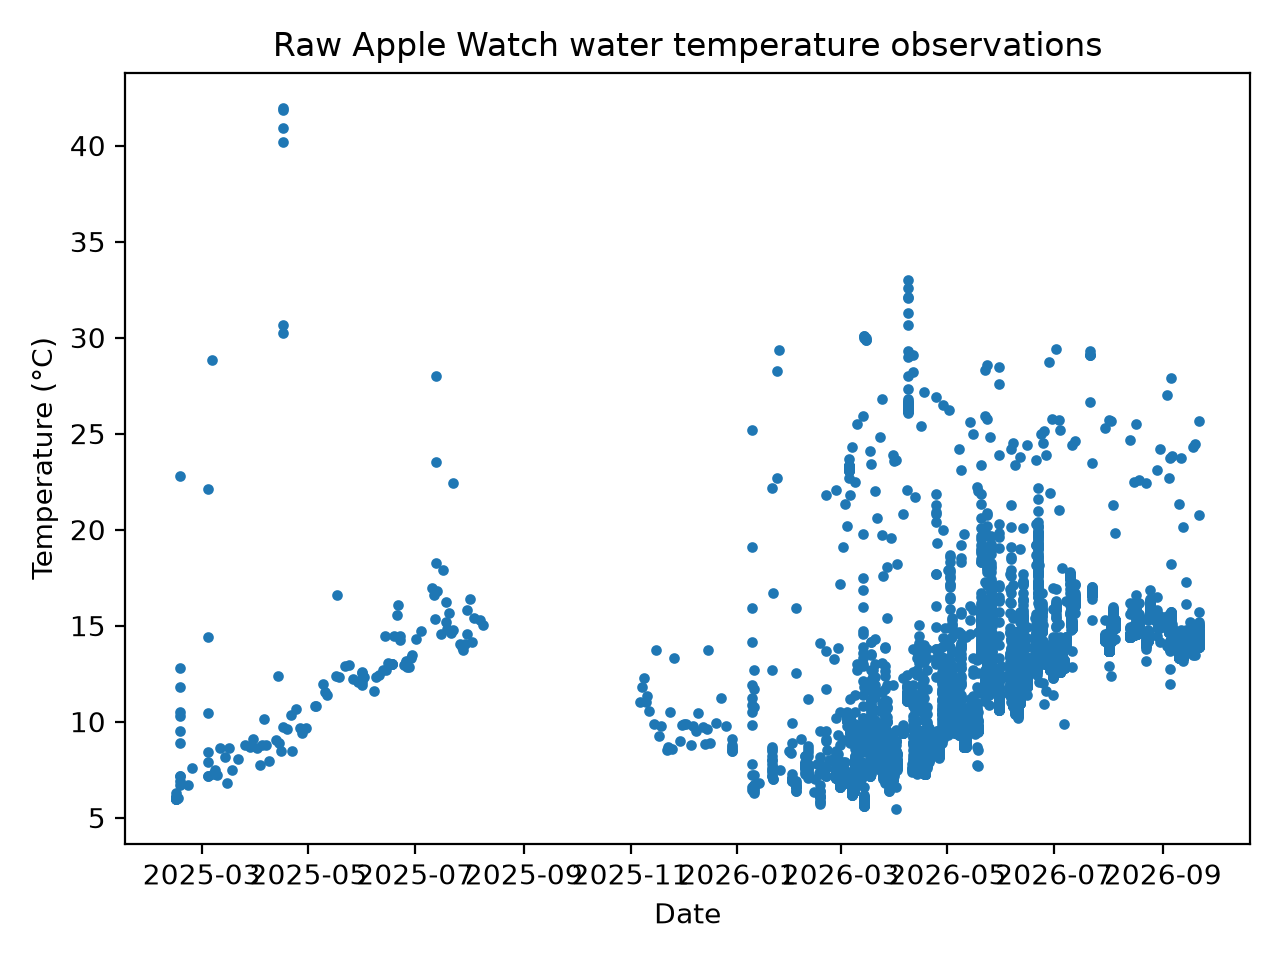
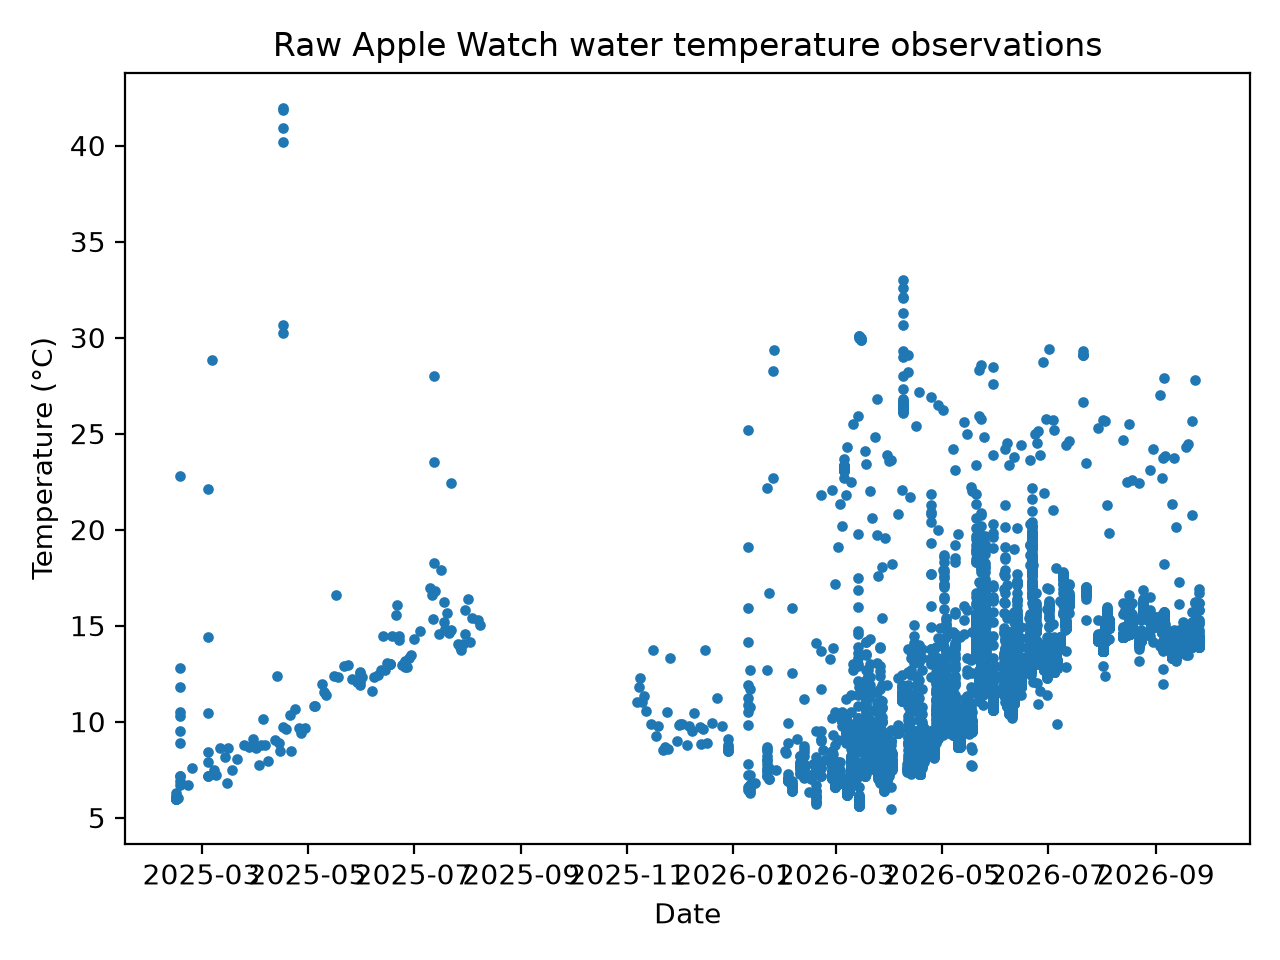
Add Apple Health merge step for smartwatch data and ipdate smartwatch report

diff --git a/smartwatch.html b/smartwatch.html
@@ -65,12 +65,12 @@ a {
 <h2>Dataset overview</h2>
 <table>
 <tr><th>Metric</th><th>Value</th></tr>
-<tr><td>Raw water temperature observations</td><td>8,741</td></tr>
-<tr><td>Observation period</td><td>2025-02-14 to 2026-09-21</td></tr>
-<tr><td>Sessions using 30-minute gap rule</td><td>303</td></tr>
+<tr><td>Raw water temperature observations</td><td>8,950</td></tr>
+<tr><td>Observation period</td><td>2025-02-14 to 2026-09-25</td></tr>
+<tr><td>Sessions using 30-minute gap rule</td><td>305</td></tr>
 <tr><td>Single-observation sessions</td><td>134</td></tr>
 <tr><td>Short sessions, 2–4 readings</td><td>12</td></tr>
-<tr><td>Continuous sessions, 5+ readings</td><td>157</td></tr>
+<tr><td>Continuous sessions, 5+ readings</td><td>159</td></tr>
 </table>
 </div>
 
@@ -78,18 +78,18 @@ a {
 <h2>Key findings</h2>
 
 <ul>
-<li><strong>8,741</strong> smartwatch water temperature observations were analysed.</li>
-<li>These observations formed <strong>303</strong> swim sessions using a 30-minute gap rule.</li>
-<li><strong>157 sessions (51.8%)</strong> contained five or more readings and provide sufficient observations to investigate stable temperature plateau detection. </li>
+<li><strong>8,950</strong> smartwatch water temperature observations were analysed.</li>
+<li>These observations formed <strong>305</strong> swim sessions using a 30-minute gap rule.</li>
+<li><strong>159 sessions (52.1%)</strong> contained five or more readings and provide sufficient observations to investigate stable temperature plateau detection. </li>
 <li>The median sampling interval was <strong>17.0 seconds</strong>, providing high temporal resolution within sessions.</li>
 <li>The data support deriving <strong>one representative temperature per swim session</strong>, rather than treating observations as independent temperature measurements.</li>
 </ul>
 
 <table>
 <tr><th>Finding</th><th>Value</th></tr>
-<tr><td>Average readings per session</td><td>28.8</td></tr>
-<tr><td>Readings ≥20°C</td><td>376 (4.3%)</td></tr>
-<tr><td>Readings ≥25°C</td><td>159 (1.8%)</td></tr>
+<tr><td>Average readings per session</td><td>29.3</td></tr>
+<tr><td>Readings ≥20°C</td><td>377 (4.2%)</td></tr>
+<tr><td>Readings ≥25°C</td><td>160 (1.8%)</td></tr>
 </table>
 
 </div>
@@ -101,8 +101,8 @@ a {
 <tr><th>Metric</th><th>Value</th></tr>
 <tr><td>Minimum recorded temperature</td><td>5.46°C</td></tr>
 <tr><td>Maximum recorded temperature</td><td>41.97°C</td></tr>
-<tr><td>Readings ≥20°C</td><td>376</td></tr>
-<tr><td>Readings ≥25°C</td><td>159</td></tr>
+<tr><td>Readings ≥20°C</td><td>377</td></tr>
+<tr><td>Readings ≥25°C</td><td>160</td></tr>
 </table>
 <img src="reports/charts/raw_temperature_observations.png" alt="Raw smartwatch water temperature observations">
 </div>
@@ -112,7 +112,7 @@ a {
 <table>
 <tr><th>Metric</th><th>Value</th></tr>
 <tr><td>Median sampling interval</td><td>17.0 seconds</td></tr>
-<tr><td>Within-session intervals</td><td>8,438</td></tr>
+<tr><td>Within-session intervals</td><td>8,645</td></tr>
 </table>
 <img src="reports/charts/sampling_intervals.png" alt="Sampling interval distribution">
 </div>
@@ -122,9 +122,9 @@ a {
 
 <table>
 <tr><th>Metric</th><th>Value</th></tr>
-<tr><td>Median duration</td><td>6.5 minutes</td></tr>
-<tr><td>75th percentile</td><td>19.7 minutes</td></tr>
-<tr><td>95th percentile</td><td>31.4 minutes</td></tr>
+<tr><td>Median duration</td><td>6.7 minutes</td></tr>
+<tr><td>75th percentile</td><td>20.0 minutes</td></tr>
+<tr><td>95th percentile</td><td>31.9 minutes</td></tr>
 </table>
 
 <img src="reports/charts/session_durations.png" alt="Session duration distribution">
@@ -168,14 +168,14 @@ above are excluded before this analysis.
 
 <table>
 <tr><th>Metric</th><th>Value</th></tr>
-<tr><td>Sessions analysed for stability</td><td>153</td></tr>
-<tr><td>Sessions with provisional stable window</td><td>128 (83.7%)</td></tr>
-<tr><td>Median time to first stable window</td><td>2.7 minutes</td></tr>
+<tr><td>Sessions analysed for stability</td><td>155</td></tr>
+<tr><td>Sessions with provisional stable window</td><td>130 (83.9%)</td></tr>
+<tr><td>Median time to first stable window</td><td>2.8 minutes</td></tr>
 <tr><td>75th percentile time to stability</td><td>5.7 minutes</td></tr>
-<tr><td>90th percentile time to stability</td><td>8.7 minutes</td></tr>
+<tr><td>90th percentile time to stability</td><td>8.8 minutes</td></tr>
 <tr><td>Median rolling 5-reading range</td><td>0.25°C</td></tr>
-<tr><td>75th percentile rolling range</td><td>0.60°C</td></tr>
-<tr><td>90th percentile rolling range</td><td>1.55°C</td></tr>
+<tr><td>75th percentile rolling range</td><td>0.55°C</td></tr>
+<tr><td>90th percentile rolling range</td><td>1.52°C</td></tr>
 </table>
 
 <img src="reports/charts/first_stable_minute.png" alt="Time to first stable temperature window">
